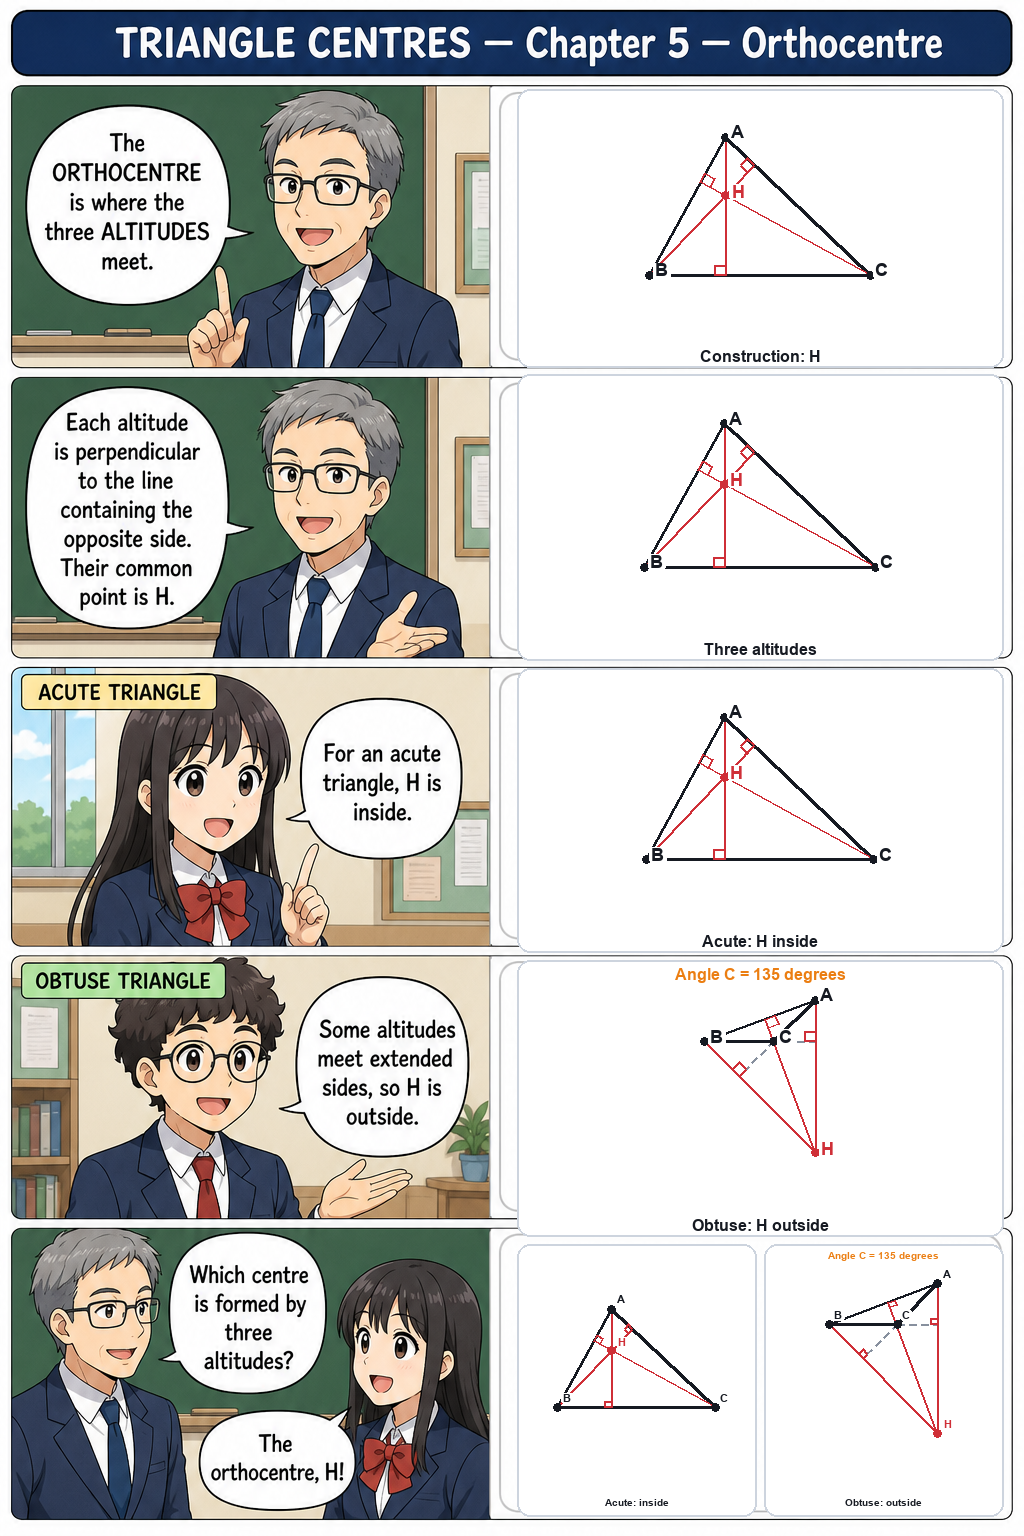
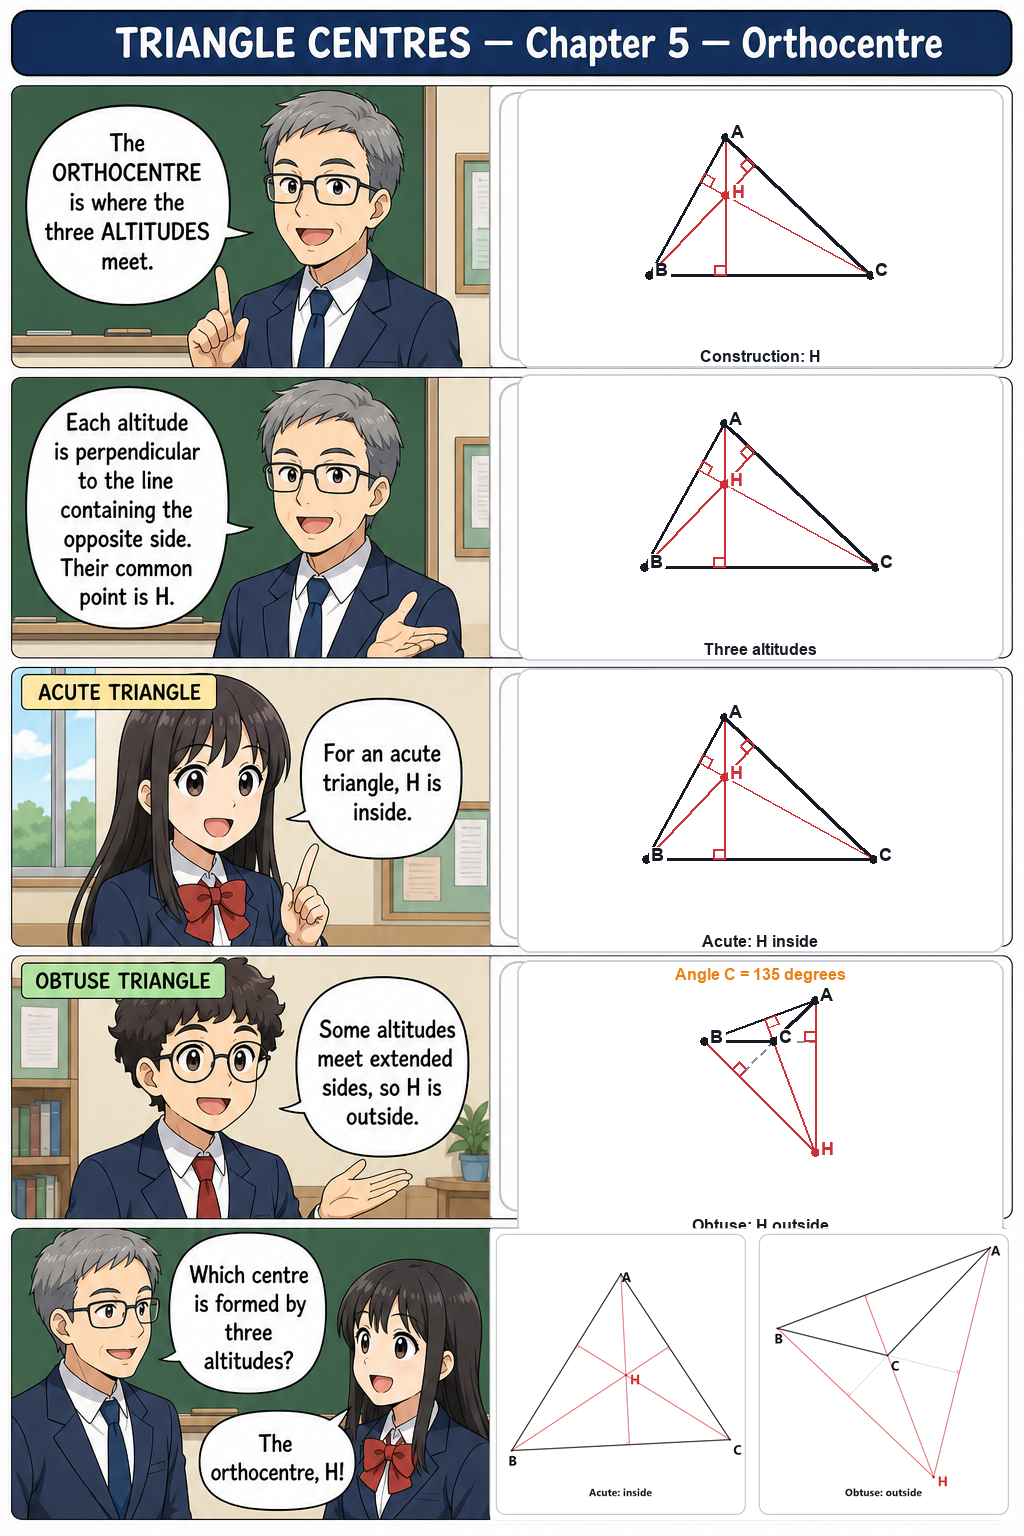
Redraw four-centre last-row rights as two separate acute/obtuse cells.

Changed region(s): [[0.4688, 0.7812, 1.0, 1.0]]

diff --git a/topics/triangle_centres/comics-manifest.js b/topics/triangle_centres/comics-manifest.js
@@ -29,22 +29,22 @@ window.JM28_COMICS = {
       {
         id: "ch5",
         title: "Chapter 5 — Orthocentre",
-        file: "triangle-centres-chapter-5-orthocentre-color.png",
+        file: "triangle-centres-chapter-5-orthocentre-color.png?v=20260906-twocells",
       },
       {
         id: "ch6",
         title: "Chapter 6 — Centroid",
-        file: "triangle-centres-chapter-6-centroid-color.png",
+        file: "triangle-centres-chapter-6-centroid-color.png?v=20260906-twocells",
       },
       {
         id: "ch7",
         title: "Chapter 7 — In-centre",
-        file: "triangle-centres-chapter-7-incentre-color.png",
+        file: "triangle-centres-chapter-7-incentre-color.png?v=20260906-twocells",
       },
       {
         id: "ch8",
         title: "Chapter 8 — Circumcentre",
-        file: "triangle-centres-chapter-8-circumcentre-color.png?v=20260906-twocells",
+        file: "triangle-centres-chapter-8-circumcentre-color.png?v=20260906-twocells2",
       },
       {
         id: "quest1",
